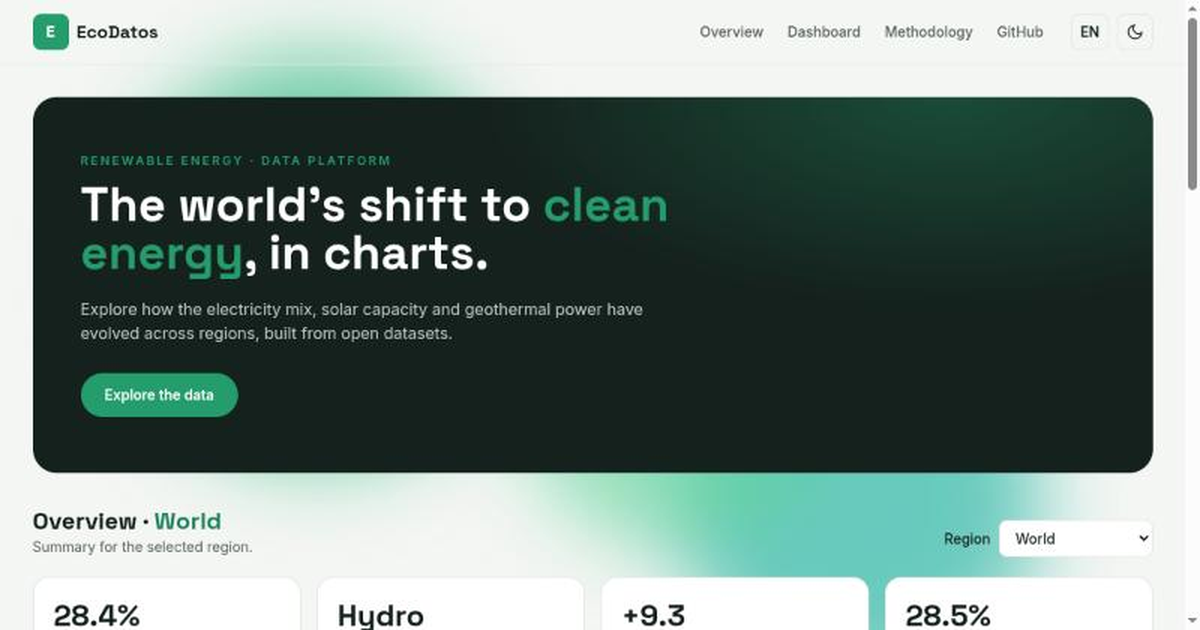
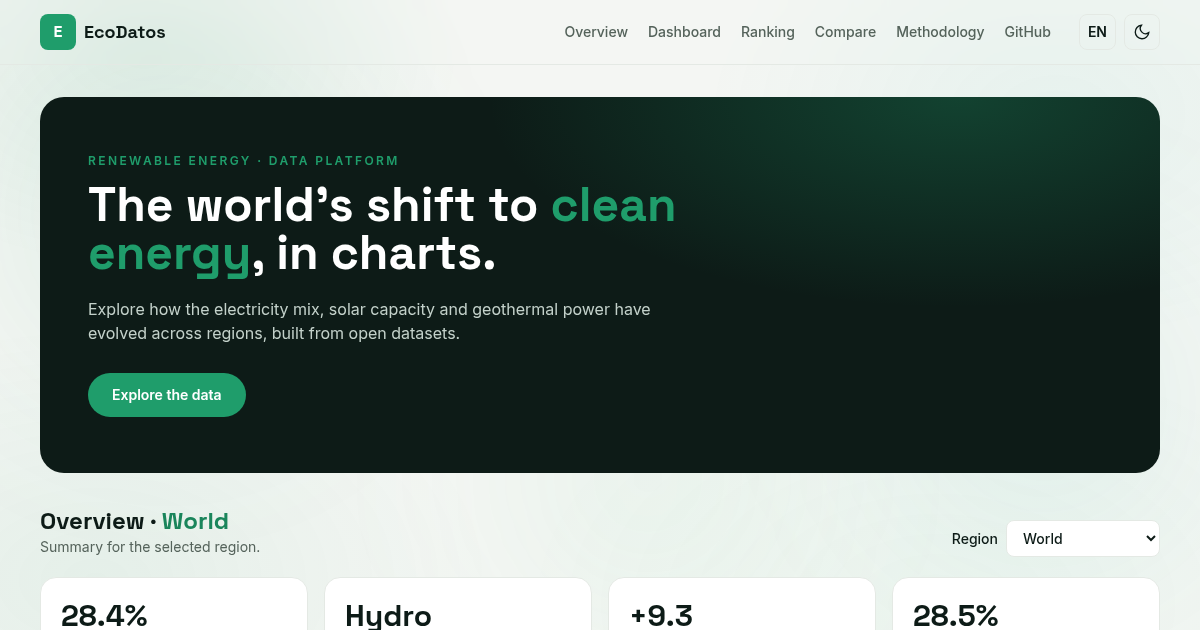
docs: refresh screenshots, open graph image and readme for the new sections

diff --git a/README.md b/README.md
@@ -9,14 +9,18 @@ A renewable-energy data dashboard. Pick a region and explore its electricity mix
 ## Features
 
 - Region selector that drives the whole dashboard for 26 countries and regions
-- Summary KPI cards that recompute per region (renewable share, top source, growth since 2000, peak share) with a count-up animation
+- Summary KPI cards that recompute per region (renewable share, top source, growth since 2000, peak share) with a count-up that respects reduced-motion
+- Automatic text insights per region: growth since 2000, the fastest-growing source, the current leading source and the all-time peak
+- Source breakdown tiles showing the latest hydro, solar and wind share and each one's change since 2000
+- A country ranking by latest renewable share, with the selected region highlighted
+- A two-region comparator: renewable share over time side by side, with an at-a-glance summary of each region and the gap between them
 - Four interactive charts: electricity mix (doughnut), renewable share over time (stacked area), solar capacity trend (line) and geothermal leaders (bar)
-- Each chart can switch to an accessible data table, or export its data as CSV and the chart as PNG
+- Charts and the ranking can switch to an accessible data table, or export their data as CSV; charts also export as PNG
 - English / Spanish toggle that translates the whole interface, including chart labels, table headers and region names; remembered and defaulting to the browser language
 - Light / dark theme that the charts adapt to; respects `prefers-color-scheme` and is remembered
-- Subtle CSS-only animated background that pauses when the tab is hidden and respects `prefers-reduced-motion`
+- Subtle CSS-only mesh background that drifts slowly, pauses when the tab is hidden and respects `prefers-reduced-motion`
 - Sticky navigation with active-section highlighting, a styled 404 page, print styles, and keyboard shortcuts (`t` theme, `l` language)
-- "Methodology & sources" section citing the data and its limitations
+- Methodology section citing the data, its limitations and an update note, plus a glossary of terms
 - Data is pre-processed into a small JS bundle, so the dashboard loads instantly with no backend
 
 ## Stack
@@ -53,4 +57,6 @@ avoids runtime CSV parsing.
 
 ## Screenshots
 
-![Charts with table and export tools](docs/charts.png)
+![Dashboard charts with table and export tools](docs/charts.png)
+
+![Country ranking and two-region comparator](docs/compare.png)
